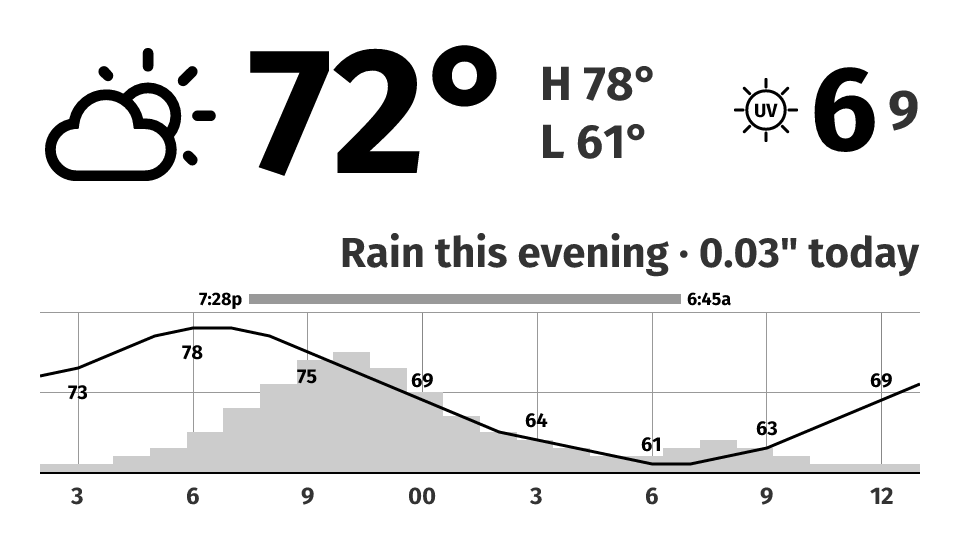
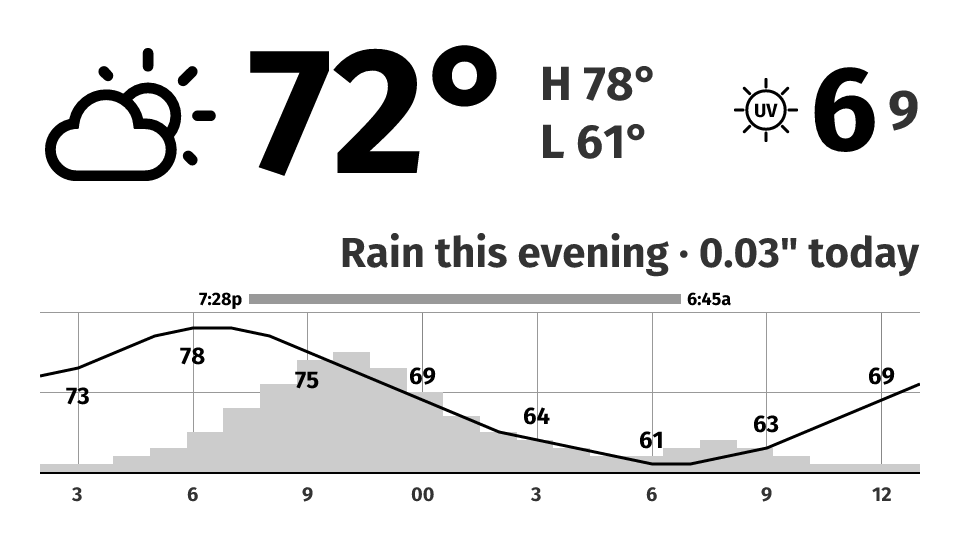
render: enlarge temp labels to 24px, shrink hour-axis labels to 20px
Make the on-curve temperature values the most prominent chart text (20 -> 24px,
nudging their line-gap from +12/-32 to +14/-38 to clear the larger glyphs) and
dial the hour-axis labels back (24 -> 20px) so they recede. Regenerate the day
and night reference previews.

diff --git a/worker/renderer/src/layout.jsx b/worker/renderer/src/layout.jsx
@@ -417,7 +417,7 @@ function AxisLabels({ chartW, updated, n }) {
             position: 'absolute',
             left: x - AXIS_LABEL_W / 2,
             width: AXIS_LABEL_W,
-            fontSize: 24,
+            fontSize: 20,
             fontWeight: 600,
             color: FG_MUTED,
             display: 'flex',
@@ -801,9 +801,9 @@ function ForecastChart({ data, hasRain, hasSnow }) {
               style={{
                 position: 'absolute',
                 left: x - 30,
-                top: below ? y + 12 : y - 32,
+                top: below ? y + 14 : y - 38,
                 width: 60,
-                fontSize: 20,
+                fontSize: 24,
                 fontWeight: 700,
                 color: FG,
                 display: 'flex',